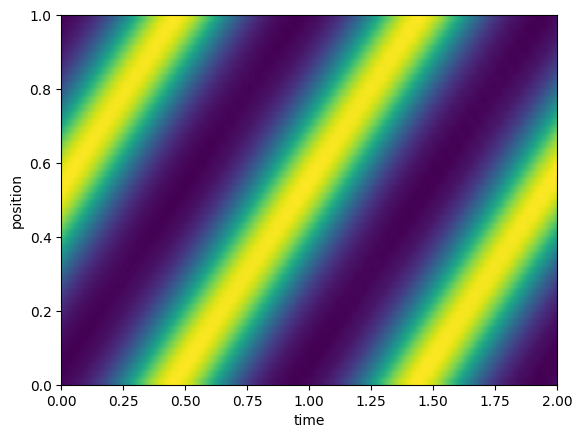
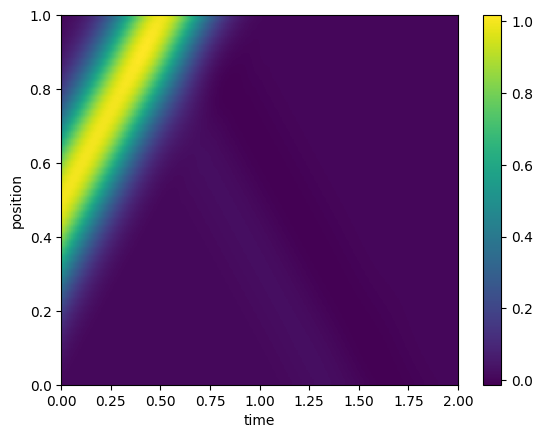
Add seperate file for main function

diff --git a/python/solver.py b/python/solver.py
@@ -5,6 +5,7 @@ import math
 
 from finite_differences.example_functions import *
 from results_plotting import *
+
 ### constants
 c = 1
 coeffDict = {2:[1,-2,1],4:[-1/12,4/3,-5/2,4/3,-1/12], 6:[1/90,-3/20,3/2,-49/18,3/2,-3/20,1/90],
@@ -25,12 +26,14 @@ def gridmaker(endT,nt,endX,nx,startX=0,startT=0):
 
 
 def wave_evolution1D(phi0,Pi0,timevalues,xvalues,bc,potential,order):
+  if bc != "periodic" and order != 2:
+      print("for this accuracy order we only implemented 'periodic' boundary conditions.")
   binomcoeffs = coeffDict[order]
   Nt = len(timevalues)
   Nx = len(xvalues)
 
   deltax = (xvalues[Nx-1]-xvalues[0])/(Nx-1)
-  print(deltax)
+  # print(deltax)
   deltat = timevalues[Nt-1]/(Nt-1)
   phi = np.zeros([Nt,Nx+order])     # add 1 ghost point at each end for each order
   Pi = np.zeros([Nt,Nx+order])
@@ -49,36 +52,26 @@ def wave_evolution1D(phi0,Pi0,timevalues,xvalues,bc,potential,order):
       Pi[0:ho] = Pi[-order-1:-ho-1]  # filling ghost points at the beginning
       Pi[-1:-ho-1:-1] = Pi[order:order-ho:-1] # filling ghost points at the end
     elif bc == "Dirichlet": # like a string
-      if order != 2:
-        print("OMG here is an error!!!!")
       phi[0] = - phi[2]
       phi[-1] = - phi[-3]
       Pi[0] = - Pi[2]
       Pi[-1] = - Pi[-3]
     elif bc == "vonNeumann": # like a reflected water wave
-      if order != 2:
-        print("OMG here is an error!!!!")
       phi[0] = phi[1]
       phi[-1] = phi[-2]
       Pi[0] = Pi[1]
       Pi[-1] = Pi[-2]
     elif bc == "open_i":     # variant (i)
-      if order != 2:
-        print("OMG here is an error!!!!")
       phi[0] = 2 * phi[1] - phi[2]
       phi[-1] = 2 * phi[-2] - phi[-3]
       Pi[0] = 2 * Pi[1] - Pi[2]
       Pi[-1] = 2* Pi[-2] - Pi[-3]
     elif bc == "open_ii":         # variant (ii)
-      if order != 2:
-        print("OMG here is an error!!!!")
       phi[0] = phi[2] - 2*Pi[1] * deltax/c
       phi[-1] = phi[-3] - 2*Pi[-2] * deltax/c
       Pi[0] = Pi[2] - 2*phi[1] * deltax/c
       Pi[-1] = Pi[-3] - 2*phi[-2] * deltax/c
     elif bc == "open_iii":         # variant (iii)
-      if order != 2:
-        print("OMG here is an error!!!!")
       phi[0] = - deltax*(2*Pi[1] - Pi[2])/c + phi[1]
       phi[-1] = - deltax*(2*Pi[-2] - Pi[-3])/c + phi[-2]
       Pi[0] = (phi[0] - phi[1])/deltax
@@ -106,7 +99,7 @@ def wave_evolution1D(phi0,Pi0,timevalues,xvalues,bc,potential,order):
     phi[i+1,:] = phi[i,:] + deltat*(1/6*k1_phi + 1/3*k2_phi +1/3*k3_phi + 1/6*k4_phi)
     Pi[i+1,:] = Pi[i,:] + deltat*(1/6*k1_Pi + 1/3*k2_Pi +1/3*k3_Pi + 1/6*k4_Pi)
 
-  return phi[:,1:Nx+1], Pi[:,1:Nx+1] # return only inner points
+  return phi[:,ho:Nx+ho], Pi[:,ho:Nx+ho] # return only inner points
 
 #--------------------- take a look at the energy -------------------
 #-------------------------------------------------------------------
@@ -137,60 +130,13 @@ def IVmaker(func,xvalues,sigma=1,mu=1,width=1,k=1,ampl=1):
 
 
 # ------------------- potential ---------------
-depth = 0.15
-kappa = 0.1 # width
-
 def sech(x):
   return 2/(np.exp(x)+np.exp(-x))
 
-def PTpot(xvalues):
+def PT_potential(xvalues,depth,kappa):
   V0 = depth
-  # kappa = kappa
   return -V0 * sech(kappa*xvalues)**2
 
 def zero_potential(xvalues):
     return np.zeros_like(xvalues)
 
-# -------------------- now, do it ---------------
-if __name__ == "__main__":
-    endT = 2
-    Nt = 200
-    startX = 0
-    endX = 1
-    Nx = 50
-
-    sigma = 1/6 # for gaussian pulse
-    mu = 1/2
-    ampl = 1
-    width= 0.2 # for triangle pulse
-    k = 1  # for square pulse
-
-    deltat, timevalues, deltax, xvalues = gridmaker(endT,Nt,endX,Nx,startX)
-    courant = c * deltat / deltax
-    print("courant number = %.2f" % courant)
-
-    ### potential
-    # potential = PTpot(xvalues)
-    potential = zero_potential(xvalues)
-    # plot_potential(xvalues,potential)
-
-    Phi0, Pi0 = IVmaker('gauss',xvalues,sigma,mu,width,k,ampl) # phi: Zeilen: Zeit, Spalten: Ort
-
-    bc = 'periodic'
-    Phi, Pi = wave_evolution1D(Phi0,Pi0,timevalues,xvalues,bc,potential,6)
-
-    print("calculation finished.")
-    # Nt_plot = 7 # how many snap shots are plotted
-    # Etotal = total_energy(Phi,Pi)
-
-    ### Plotting the results
-    # plot_energy_evolution(Etotal,timevalues)
-    plot_xt_evolution_heatmap(timevalues,xvalues,Phi)
-    # xindex = 225
-    # plot_amplitude_evolution(timevalues,Phi[:,xindex],xvalues[xindex])
-    # tindex = 290
-    # plot_amplitude_timestamp(xvalues,Phi[tindex,:],timevalues[tindex],depth,kappa)
-    # plot_animation(xvalues, timevalues, Phi, Pi,'mp4')
-
-    ### save as csv file
-    # np.savetxt("results.csv", Phi, delimiter = ',', fmt = '%.6e')

diff --git a/python/main.py b/python/main.py
@@ -1,0 +1,57 @@
+import numpy as np
+import matplotlib.pyplot as plt
+from scipy import signal # what for?
+import math # what for?
+
+from finite_differences.example_functions import *
+from solver import *
+from results_plotting import *
+
+
+# -------------------- now, do it ---------------
+if __name__ == "__main__":
+    endT = 2
+    Nt = 200
+    startX = 0
+    endX = 1
+    Nx = 50
+
+    sigma = 1/6 # for gaussian pulse
+    mu = 1/2
+    ampl = 1
+    width= 0.2 # for triangle pulse
+    k = 1  # for square pulse
+
+    depth = 0.15
+    kappa = 0.1 # width
+
+# -------------------- now, do it ---------------
+    deltat, timevalues, deltax, xvalues = gridmaker(endT,Nt,endX,Nx,startX)
+    courant = c * deltat / deltax
+    print("courant number = %.2f" % courant)
+
+    ### potential
+    # potential = PT_potential(xvalues, depth, kappa)
+    potential = zero_potential(xvalues)
+    # plot_potential(xvalues,potential)
+
+    Phi0, Pi0 = IVmaker('gauss',xvalues,sigma,mu,width,k,ampl) # phi: Zeilen: Zeit, Spalten: Ort
+    bc = 'open_iii'
+
+    Phi, Pi = wave_evolution1D(Phi0,Pi0,timevalues,xvalues,bc,potential,2)
+
+    print("calculation finished.")
+    # Nt_plot = 7 # how many snap shots are plotted
+    # Etotal = total_energy(Phi,Pi)
+
+    ### Plotting the results
+    # plot_energy_evolution(Etotal,timevalues)
+    plot_xt_evolution_heatmap(timevalues,xvalues,Phi)
+    # xindex = 225
+    # plot_amplitude_evolution(timevalues,Phi[:,xindex],xvalues[xindex])
+    # tindex = 290
+    # plot_amplitude_timestamp(xvalues,Phi[tindex,:],timevalues[tindex],depth,kappa)
+    # plot_animation(xvalues, timevalues, Phi, Pi,'mp4')
+
+    ### save as csv file
+    # np.savetxt("results.csv", Phi, delimiter = ',', fmt = '%.6e')
